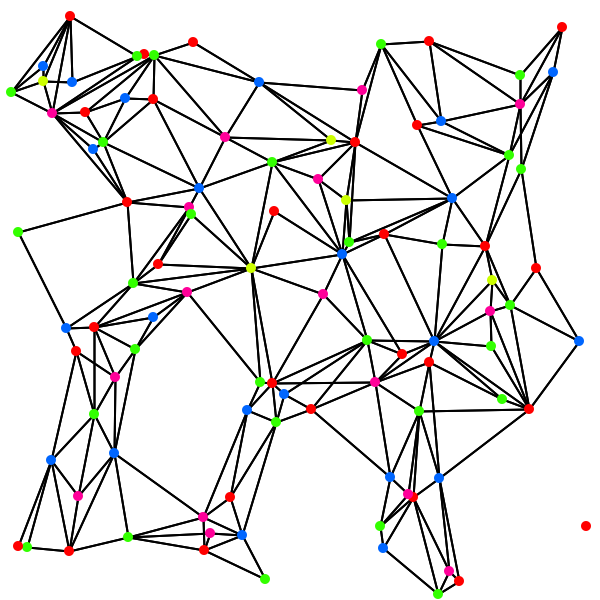
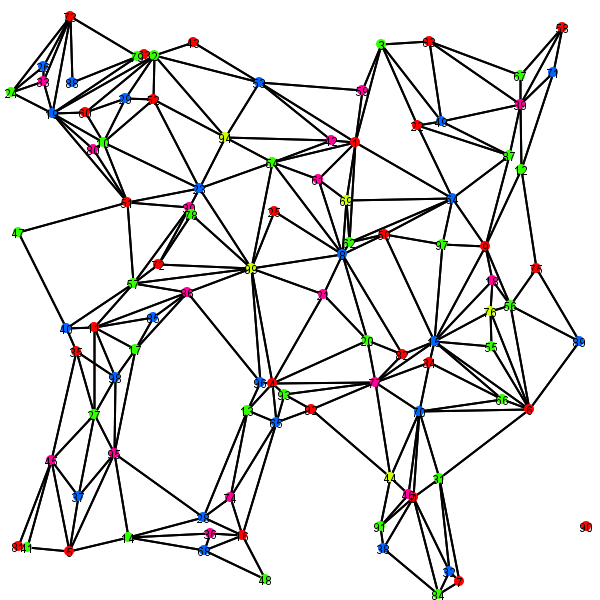
fix visualization

diff --git a/lab5/src/main/java/mouse/univ/color/gui/GraphModelGenerator.java b/lab5/src/main/java/mouse/univ/color/gui/GraphModelGenerator.java
@@ -19,10 +19,14 @@ public class GraphModelGenerator {
     private final double ALLOCATION_CHANCE = 0.95;
 
     private static class Edge {
+        int id1;
+        int id2;
         Position p1;
         Position p2;
 
-        public Edge(Position p1, Position p2) {
+        public Edge(int id1, int id2, Position p1, Position p2) {
+            this.id1 = id1;
+            this.id2 = id2;
             this.p1 = p1;
             this.p2 = p2;
         }
@@ -60,7 +64,7 @@ public class GraphModelGenerator {
                     if (allocate <= ALLOCATION_CHANCE) {
                         if (canDrawEdge(origin.getId(), target.getId(), positionHashMap, existingEdges)) {
                             origin.addNeighbor(target);
-                            existingEdges.add(new Edge(originPosition, targetPosition));
+                            existingEdges.add(new Edge(i, j, originPosition, targetPosition));
                         }
                     }
                 }
@@ -84,7 +88,11 @@ public class GraphModelGenerator {
                 return false;
             }
         }
+
         for (Edge edge: existingEdges) {
+            if (i == 71 && j == 87 && edge.id1 == 12 && edge.id2 == 39) {
+                System.out.println("!!!");
+            }
             if (Geometry.segmentIntersect(originPosition, targetPosition, edge.p1, edge.p2)) {
                 return false;
             }

diff --git a/lab5/src/main/java/mouse/univ/color/gui/GUIPipeline.java b/lab5/src/main/java/mouse/univ/color/gui/GUIPipeline.java
@@ -8,13 +8,13 @@ import java.awt.image.BufferedImage;
 
 @Log4j2
 public class GUIPipeline {
-    public static void run(int width, int height, int numVertices, Coloring coloring) {
+    public static void run(int width, int height, int numVertices, Coloring coloring, boolean displayIds) {
         GraphModelGenerator graphModelGenerator = new GraphModelGenerator(width, height);
         GraphVisualization visualization = new GraphVisualization();
         ColorMap colorMap = new HVSColorMap();
 
         GraphModel initialModel = graphModelGenerator.generate(numVertices);
-        BufferedImage beforeImage = visualization.visualize(initialModel, colorMap);
+        BufferedImage beforeImage = visualization.visualize(initialModel, colorMap, displayIds);
         visualization.save(beforeImage, "before.png");
 
         GraphModel afterModel = initialModel.duplicate();
@@ -22,7 +22,7 @@ public class GUIPipeline {
         afterModel.setColoredGraph(minimized);
         int maxColor = minimized.maxColor();
         log.info("Total colors: {}", maxColor + 1);
-        BufferedImage afterImage = visualization.visualize(afterModel, colorMap);
+        BufferedImage afterImage = visualization.visualize(afterModel, colorMap, displayIds);
         visualization.save(afterImage, "after.png");
     }
 }

diff --git a/lab5/src/main/java/mouse/univ/color/gui/GraphVisualization.java b/lab5/src/main/java/mouse/univ/color/gui/GraphVisualization.java
@@ -11,7 +11,7 @@ import java.util.Set;
 
 public class GraphVisualization {
 
-    public BufferedImage visualize(GraphModel graphModel, ColorMap colorMap) {
+    public BufferedImage visualize(GraphModel graphModel, ColorMap colorMap, boolean displayIds) {
         BufferedImage image = new BufferedImage(graphModel.getWidth(), graphModel.getHeight(), BufferedImage.TYPE_INT_ARGB);
 
         Graphics2D g2 = image.createGraphics();
@@ -43,6 +43,20 @@ public class GraphVisualization {
                         radius * 2,
                         radius * 2
                 );
+                if (displayIds) {
+                    g2.setColor(Color.BLACK);
+
+                    String text = String.valueOf(vertex.getId());
+                    FontMetrics fm = g2.getFontMetrics();
+
+                    int textWidth = fm.stringWidth(text);
+                    int textHeight = fm.getAscent();
+
+                    int textX = position.getX() - textWidth / 2;
+                    int textY = position.getY() + textHeight / 2;
+
+                    g2.drawString(text, textX, textY);
+                }
             }
         } finally {
             g2.dispose();

diff --git a/lab5/src/main/java/mouse/univ/color/gui/Geometry.java b/lab5/src/main/java/mouse/univ/color/gui/Geometry.java
@@ -60,7 +60,10 @@ public class Geometry {
         double interceptX = (l1.b * l2.c - l2.b * l1.c) / denominator;
         double interceptY = (l1.c * l2.a - l2.c * l1.a) / denominator;
 
-        return withinSegment(interceptX, interceptY, a1, a2) && withinSegment(interceptX, interceptY, b1, b2);
+        boolean withinA = withinSegment(interceptX, interceptY, a1, a2);
+        boolean withinB = withinSegment(interceptX, interceptY, b1, b2);
+
+        return withinA && withinB;
     }
 
     private static boolean withinSegment(double interceptX, double interceptY, Position s1, Position s2) {
@@ -74,6 +77,6 @@ public class Geometry {
     }
 
     private static boolean withinCoordsUnstrict(int low, double target, int high) {
-        return target - low > 0.5 && high - target > 0.5;
+        return target - low > 0.25 && high - target > 0.25;
     }
 }

diff --git a/lab5/src/main/java/mouse/univ/color/gui/Application.java b/lab5/src/main/java/mouse/univ/color/gui/Application.java
@@ -6,6 +6,6 @@ import mouse.univ.color.OrderedLocalMinimizationColoring;
 public class Application {
     public static void main(String[] args) {
         Coloring coloring = new OrderedLocalMinimizationColoring(2);
-        GUIPipeline.run(600, 600, 100, coloring);
+        GUIPipeline.run(600, 600, 100, coloring, true);
     }
 }
